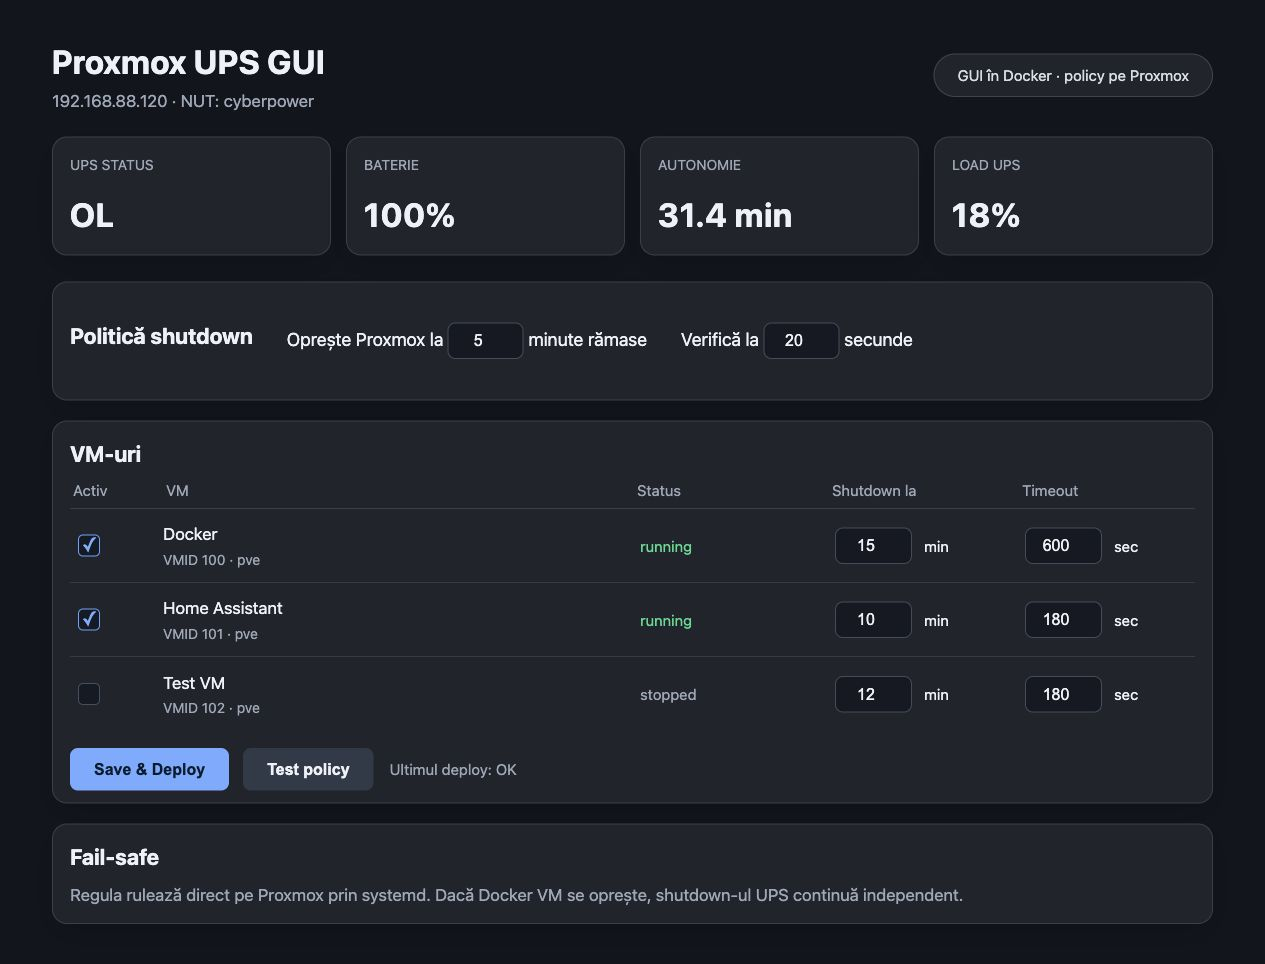
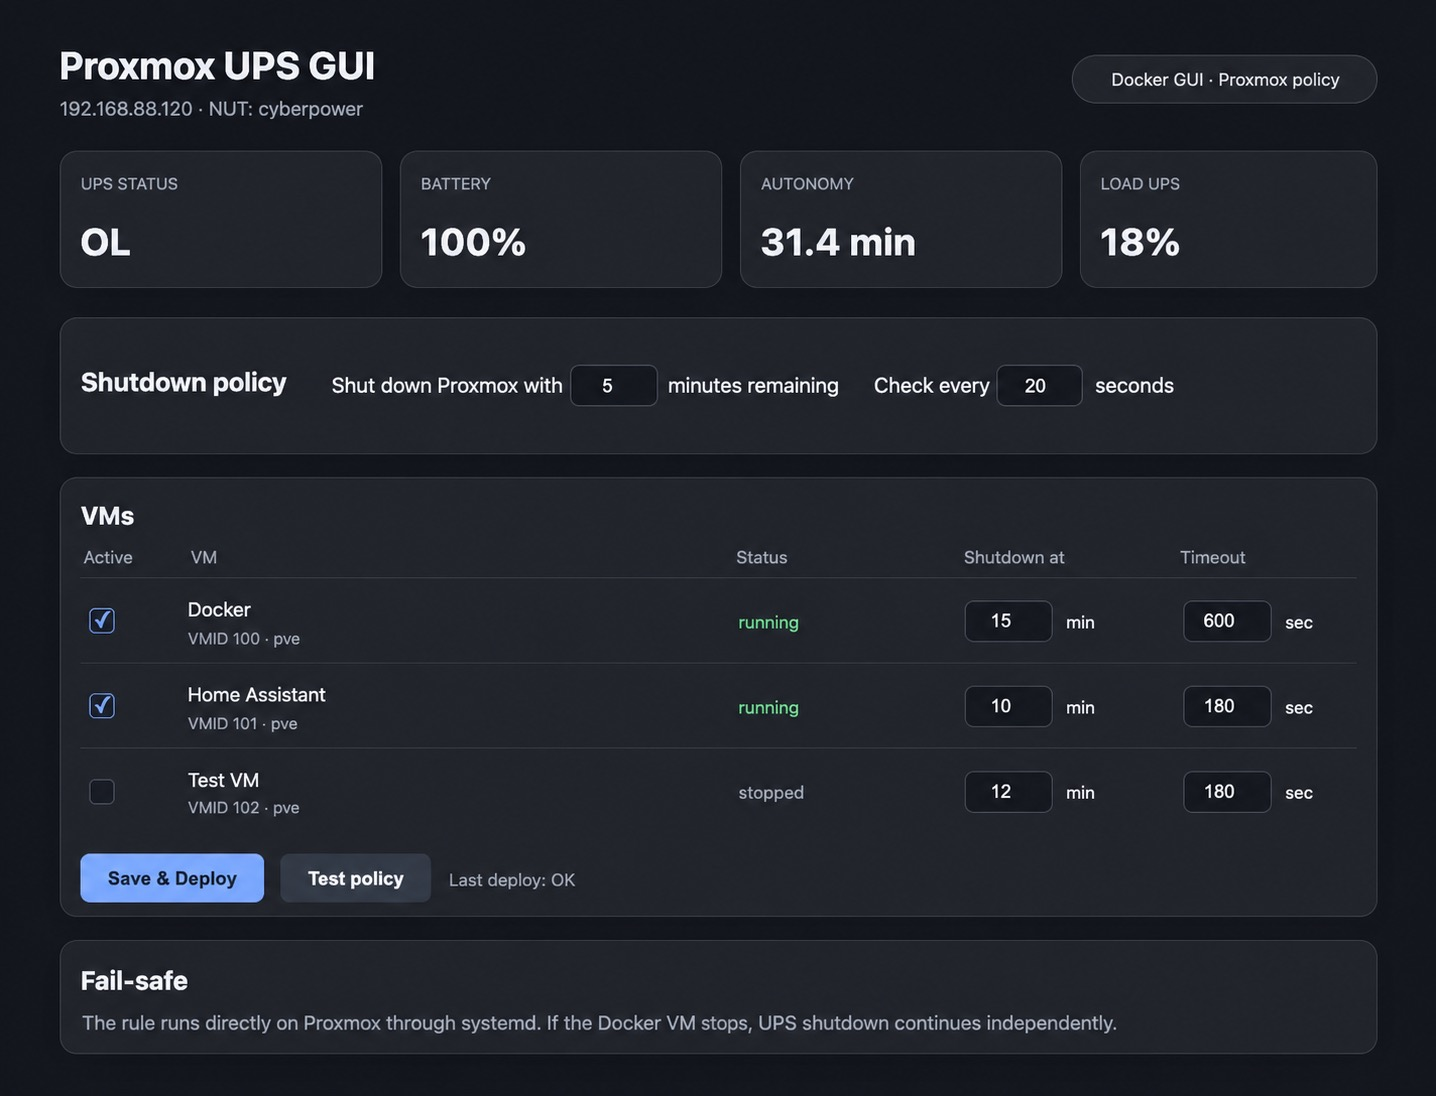
Translate GUI and documentation to English

diff --git a/templates/index.html b/templates/index.html
@@ -9,17 +9,17 @@
   </style>
 </head>
 <body><main>
-  <header><div><h1>Proxmox UPS GUI</h1><div class="subtitle" id="subtitle">192.168.88.120 · NUT: cyberpower</div></div><div class="badge">GUI în Docker · policy pe Proxmox</div></header>
+  <header><div><h1>Proxmox UPS GUI</h1><div class="subtitle" id="subtitle">192.168.88.120 · NUT: cyberpower</div></div><div class="badge">Docker GUI · Proxmox policy</div></header>
   <section class="stats"><div class="card stat"><div class="label">UPS status</div><div class="value" id="ups-status">OL</div></div><div class="card stat"><div class="label">Baterie</div><div class="value" id="battery">100%</div></div><div class="card stat"><div class="label">Autonomie</div><div class="value" id="runtime">31.4 min</div></div><div class="card stat"><div class="label">Load UPS</div><div class="value" id="load">18%</div></div></section>
-  <section class="card section policy"><h2>Politică shutdown</h2><p>Oprește Proxmox la <input class="inline-input" id="battery-minutes" type="number" min="0" value="5"> minute rămase</p><p>Verifică la <input class="inline-input" id="poll-seconds" type="number" min="1" value="20"> secunde</p></section>
+  <section class="card section policy"><h2>Shutdown policy</h2><p>Shut down Proxmox with <input class="inline-input" id="battery-minutes" type="number" min="0" value="5"> minutes remaining</p><p>Check every <input class="inline-input" id="poll-seconds" type="number" min="1" value="20"> seconds</p></section>
   <section class="card section vm-card"><h2>VM-uri</h2><div class="table-head"><div>Activ</div><div>VM</div><div>Status</div><div>Shutdown la</div><div>Timeout</div></div><div id="vm-list"></div><div class="actions"><button class="primary" id="deploy">Save &amp; Deploy</button><button id="test">Test policy</button><span class="result" id="result">Ultimul deploy: OK</span></div></section>
-  <section class="card notice"><h2>Fail-safe</h2><p>Regula rulează direct pe Proxmox prin systemd. Dacă Docker VM se oprește, shutdown-ul UPS continuă independent.</p></section>
+  <section class="card notice"><h2>Fail-safe</h2><p>The rule runs directly on Proxmox through systemd. If the Docker VM stops, UPS shutdown continues independently.</p></section>
 </main>
 <script>
   const formState={};const list=document.querySelector('#vm-list');const result=document.querySelector('#result');
   function esc(v){return String(v??'').replace(/[&<>"']/g,x=>({'&':'&amp;','<':'&lt;','>':'&gt;','"':'&quot;',"'":'&#39;'}[x]))}
   function render(c){document.querySelector('#subtitle').textContent=`${c.ssh_host} · NUT: ${c.ups_name}`;document.querySelector('#battery-minutes').value=c.battery_minutes||5;const items=c.containers||[];list.innerHTML='';(items.length?items:[{name:'Docker',delay:0,shutdown_after_minutes:15,timeout:600,status:'running',vmid:100},{name:'Home Assistant',delay:0,shutdown_after_minutes:10,timeout:180,status:'running',vmid:101},{name:'Test VM',delay:0,shutdown_after_minutes:12,timeout:180,status:'stopped',vmid:102}]).forEach((x,i)=>{const vmid=x.vmid||100+i;const active=x.status!=='stopped';const row=document.createElement('div');row.className='vm-row';row.innerHTML=`<input class="check" type="checkbox" ${active?'checked':''} data-name="${esc(x.name)}"><div><div class="vm-name">${esc(x.name)}</div><div class="vm-meta">VMID ${vmid} · pve</div></div><div class="status ${active?'running':'stopped'}">${active?'running':'stopped'}</div><div class="field schedule"><input class="inline-input shutdown" type="number" min="0" value="${x.shutdown_after_minutes??(x.delay||15)}"><span>min</span></div><div class="field timeout"><input class="inline-input timeout-value" type="number" min="0" value="${x.timeout||180}"><span>sec</span></div>`;list.append(row)})}
   function read(){return [...list.querySelectorAll('.vm-row')].map(r=>({name:r.querySelector('.check').dataset.name,delay:(+r.querySelector('.shutdown').value||0)*60,timeout:+r.querySelector('.timeout-value').value||180,status:r.querySelector('.check').checked?'running':'stopped'})).filter(x=>x.status==='running')}
-  async function send(url){result.textContent='Se lucrează…';document.querySelectorAll('button').forEach(b=>b.disabled=true);const c={...formState,ssh_host:formState.ssh_host,ups_name:formState.ups_name,battery_minutes:+document.querySelector('#battery-minutes').value,containers:read()};try{const r=await fetch(url,{method:'POST',headers:{'Content-Type':'application/json'},body:JSON.stringify(c)});const j=await r.json();result.textContent=j.ok?(url.includes('test')?'Policy test: OK':'Ultimul deploy: OK'):'Eroare: '+(j.error||j.errors?.join(', '))}catch(e){result.textContent='Eroare de conexiune'}finally{document.querySelectorAll('button').forEach(b=>b.disabled=false)}}
+  async function send(url){result.textContent='Working…';document.querySelectorAll('button').forEach(b=>b.disabled=true);const c={...formState,ssh_host:formState.ssh_host,ups_name:formState.ups_name,battery_minutes:+document.querySelector('#battery-minutes').value,containers:read()};try{const r=await fetch(url,{method:'POST',headers:{'Content-Type':'application/json'},body:JSON.stringify(c)});const j=await r.json();result.textContent=j.ok?(url.includes('test')?'Policy test: OK':'Last deploy: OK'):'Error: '+(j.error||j.errors?.join(', '))}catch(e){result.textContent='Connection error'}finally{document.querySelectorAll('button').forEach(b=>b.disabled=false)}}
   document.querySelector('#deploy').onclick=()=>send('/api/apply');document.querySelector('#test').onclick=()=>send('/api/test-connection');fetch('/api/config').then(r=>r.json()).then(c=>{Object.assign(formState,c);render(c)}).catch(()=>render({ssh_host:'192.168.88.120',ups_name:'cyberpower',battery_minutes:5}));
 </script></body></html>

diff --git a/app.py b/app.py
@@ -42,17 +42,17 @@ def save_config(value):
 def validate(value):
     errors = []
     for key in ("ssh_host", "ssh_user", "ups_name", "ups_driver"):
-        if not str(value.get(key, "")).strip(): errors.append(f"{key} este obligatoriu")
+        if not str(value.get(key, "")).strip(): errors.append(f"{key} is required")
     for key in ("battery_minutes", "low_battery_minutes", "stop_timeout"):
         try:
-            if int(value.get(key, 0)) < 0: errors.append(f"{key} trebuie să fie pozitiv")
-        except (TypeError, ValueError): errors.append(f"{key} trebuie să fie număr")
+            if int(value.get(key, 0)) < 0: errors.append(f"{key} must be positive")
+        except (TypeError, ValueError): errors.append(f"{key} must be a number")
     try:
         if int(value.get("low_battery_minutes", 0)) > int(value.get("battery_minutes", 0)):
-            errors.append("Pragul critică nu poate depăși timerul principal")
-        if not 1 <= int(value.get("ssh_port", 0)) <= 65535: errors.append("Port SSH invalid")
-    except (TypeError, ValueError): errors.append("Port SSH invalid")
-    if not isinstance(value.get("containers"), list): errors.append("Lista de containere este invalidă")
+            errors.append("The critical battery threshold cannot exceed the main timer")
+        if not 1 <= int(value.get("ssh_port", 0)) <= 65535: errors.append("Invalid SSH port")
+    except (TypeError, ValueError): errors.append("Invalid SSH port")
+    if not isinstance(value.get("containers"), list): errors.append("Invalid container list")
     return errors
 
 def connect(cfg):

diff --git a/README.md b/README.md
@@ -1,27 +1,27 @@
 # Proxmox NUT Control
 
-Interfață web Docker pentru configurarea unui NUT server pe un host Proxmox prin SSH. Generează configurația NUT și un script care, la expirarea timerului de baterie sau la `LOWBATT`, oprește containerele Docker în ordinea afișată, apoi oprește hostul.
+Docker web interface for configuring a NUT server on a Proxmox host over SSH. It generates the NUT configuration and a shutdown script that stops Docker containers in the configured order when the battery timer expires or `LOWBATT` is reported, then shuts down the host.
 
-## Pornire
+## Getting started
 
-Asigură-te că autentificarea SSH cu cheie către hostul Proxmox funcționează, apoi rulează:
+Make sure SSH key authentication to the Proxmox host works, then run:
 
 ```sh
 mkdir -p data
 docker compose up -d --build
 ```
 
-Deschide `http://IP-ul-mașinii-care-rulează-aplicația:8080`. Completează hostul, UPS-ul și containerele, testează conexiunea, apoi aplică.
+Open `http://IP-of-the-machine-running-the-app:8080`. Configure the host, UPS and containers, test the connection, then deploy.
 
-## Atenționări
+## Warnings
 
-- Contul SSH trebuie să poată scrie în `/etc/nut`, `/usr/local/sbin` și să repornească serviciile NUT; în mod uzual este `root`.
-- Fără `ssh_known_hosts`, aplicația acceptă automat cheia hostului SSH la prima conectare. Pentru producție, montează un `known_hosts` și completează calea.
-- Înainte de aplicare se creează backup în `/root/nut-gui-backup-YYYYMMDD-HHMMSS` pe Proxmox.
-- Verifică numele reale ale containerelor cu `docker ps --format '{{.Names}}'`.
-- Aplicarea activează sau repornește `nut-server` și `nut-monitor`; testează întâi într-o fereastră de mentenanță.
+- The SSH account must be able to write to `/etc/nut`, `/usr/local/sbin` and restart NUT services; `root` is typically used.
+- Without `ssh_known_hosts`, the app automatically accepts the SSH host key on first connection. For production, mount a `known_hosts` file and configure its path.
+- A backup is created at `/root/nut-gui-backup-YYYYMMDD-HHMMSS` on Proxmox before deployment.
+- Verify actual container names with `docker ps --format '{{.Names}}'`.
+- Deployment enables or restarts `nut-server` and `nut-monitor`; test during a maintenance window first.
 
-Configurația presupune că UPS-ul CyberPower este conectat USB la hostul Proxmox și că `usbhid-ups` este instalat.
+The configuration assumes that the CyberPower UPS is connected to the Proxmox host over USB and that `usbhid-ups` is installed.
 
 ## Preview
 
